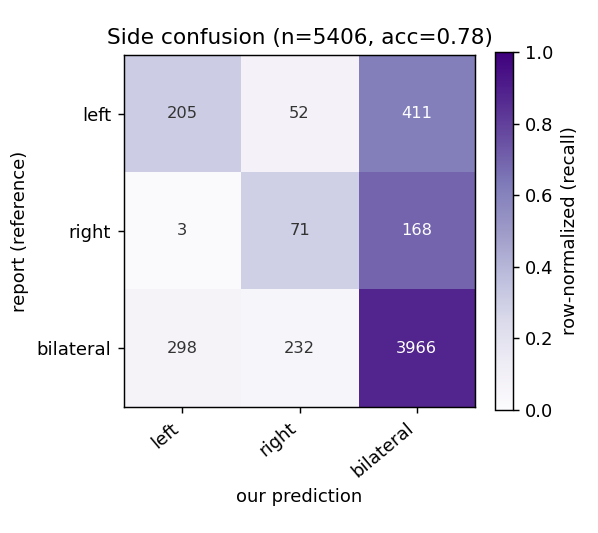
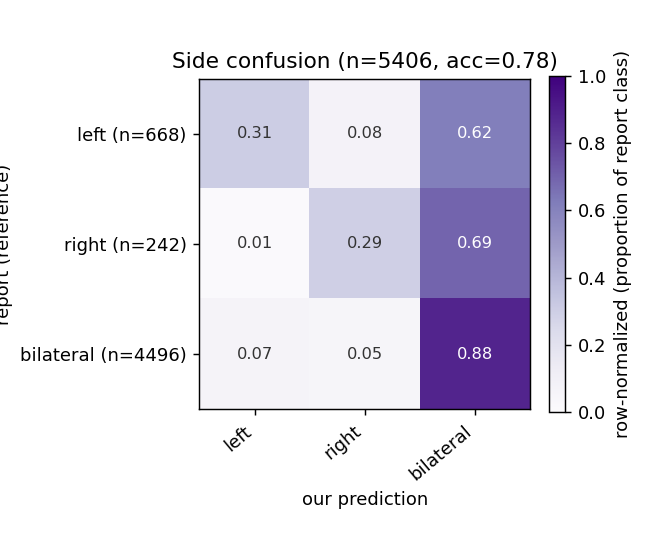
fix oversights: plan + scripts/36 (stage 7463 original abnormals from segments_raw) for stage breakout; row-normalized confusion matrices

diff --git a/scripts/36_stage_original_abnormals.py b/scripts/36_stage_original_abnormals.py
@@ -1,0 +1,78 @@
+"""Fix oversight #1: stage the ORIGINAL abnormal recordings (never staged — the original pipeline
+staged only normals). Their raw signal is on S3 as 10-min segments_raw .mat clips, already in the
+stager's format. Pull -> ss_hm_1 -> per-window stages -> data/derived/original_abnormal_stages/<rid>.csv.
+Resumable via .done markers. Run on the GPU box.
+
+Run: PYTHONPATH=src python scripts/36_stage_original_abnormals.py [N_per_label]   (default all)
+"""
+from __future__ import annotations
+import os, sys, json, time, subprocess, tempfile, shutil, importlib.util
+from pathlib import Path
+
+_spec = importlib.util.spec_from_file_location("p26", str(Path(__file__).with_name("26_slowing_ingest_pilot.py")))
+p26 = importlib.util.module_from_spec(_spec); _spec.loader.exec_module(p26)
+
+BASE = "bdsp-opendata-credentialed/morgoth1/data/internal_dataset"
+SRC = {"focal_slow": f"{BASE}/FOCALSLOWING/segments_raw",
+       "general_slow": f"{BASE}/GENSLOWING/segments_raw"}
+OUT = Path("data/derived/original_abnormal_stages"); DONE = OUT / "done"
+OUT.mkdir(parents=True, exist_ok=True); DONE.mkdir(exist_ok=True)
+PROG = p26.OUT / "stage_abnormals_progress.jsonl"
+
+
+def _prog(**k):
+    try:
+        with open(PROG, "a") as fh: fh.write(json.dumps({"t": time.time(), **k}) + "\n")
+    except Exception: pass
+
+
+def listing(prefix):
+    r = subprocess.run([p26.RC, "lsf", f"bdsp:{prefix}/"], capture_output=True, text=True)
+    return [l for l in r.stdout.splitlines() if l.endswith(".mat")]
+
+
+def main(n_per=None):
+    files = {lab: listing(pfx) for lab, pfx in SRC.items()}
+    # interleave labels
+    order, i = [], 0
+    labs = list(files)
+    while any(i < len(files[l]) for l in labs):
+        for l in labs:
+            if i < len(files[l]) and (n_per is None or i < n_per):
+                order.append((l, files[l][i]))
+        i += 1
+    total = len(order)
+    done0 = len(list(DONE.glob("*.done")))
+    _prog(event="start", total=total + done0, done=done0)
+    print(f"{total} abnormal clips to stage ({done0} already done)")
+    work = Path(tempfile.mkdtemp()); n_ok = done0
+    try:
+        for lab, fn in order:
+            rid = fn[:-4].replace("sub-", "")
+            if (DONE / f"{rid}.done").exists():
+                continue
+            sin, sout = work / "in", work / "out"
+            for d in (sin, sout): shutil.rmtree(d, ignore_errors=True); d.mkdir(parents=True)
+            try:
+                p26.rclone(["copy", f"bdsp:{SRC[lab]}/{fn}", str(sin)])
+                p26.stage_dir(str(sin), str(sout))
+                csv = next(sout.glob("*.csv"), None)
+                if csv:
+                    shutil.copy(csv, OUT / f"{rid}.csv")
+                    (DONE / f"{rid}.done").touch(); n_ok += 1
+                    if n_ok % 25 == 0:
+                        print(f"  staged {n_ok}/{total + done0}");
+                    _prog(event="done", rid=rid, done=n_ok, label=lab)
+            except Exception as e:
+                print(f"  FAIL {rid}: {type(e).__name__}: {e}")
+                _prog(event="fail", rid=rid, err=type(e).__name__)
+            finally:
+                for d in ("in", "out"): shutil.rmtree(work / d, ignore_errors=True)
+    finally:
+        shutil.rmtree(work, ignore_errors=True)
+    _prog(event="finish", done=n_ok)
+    print(f"done: {n_ok} abnormal recordings staged -> {OUT}")
+
+
+if __name__ == "__main__":
+    main(int(sys.argv[1]) if len(sys.argv) > 1 else None)

diff --git a/scripts/35_region_eval.py b/scripts/35_region_eval.py
@@ -22,17 +22,19 @@ SIDES = ["left", "right", "bilateral"]
 
 
 def heatmap(cm, labels, title, path, cmap="Blues"):
-    cmn = cm / cm.sum(axis=1, keepdims=True).clip(min=1)      # row-normalized (recall)
-    fig, ax = plt.subplots(figsize=(1.3 + 1.1 * len(labels), 1.1 + 1.0 * len(labels)))
+    n_row = cm.sum(axis=1, keepdims=True)
+    cmn = cm / n_row.clip(min=1)                              # row-normalized (recall)
+    ylab = [f"{l} (n={int(n)})" for l, n in zip(labels, n_row.ravel())]
+    fig, ax = plt.subplots(figsize=(1.7 + 1.1 * len(labels), 1.3 + 1.0 * len(labels)))
     im = ax.imshow(cmn, cmap=cmap, vmin=0, vmax=1)
     ax.set_xticks(range(len(labels))); ax.set_xticklabels(labels, rotation=40, ha="right")
-    ax.set_yticks(range(len(labels))); ax.set_yticklabels(labels)
+    ax.set_yticks(range(len(labels))); ax.set_yticklabels(ylab)
     ax.set_xlabel("our prediction"); ax.set_ylabel("report (reference)"); ax.set_title(title)
     for i in range(len(labels)):
         for j in range(len(labels)):
-            ax.text(j, i, f"{cm[i, j]}", ha="center", va="center",
+            ax.text(j, i, f"{cmn[i, j]:.2f}", ha="center", va="center",
                     color="white" if cmn[i, j] > 0.5 else "#333", fontsize=9)
-    fig.colorbar(im, ax=ax, fraction=0.046, label="row-normalized (recall)")
+    fig.colorbar(im, ax=ax, fraction=0.046, label="row-normalized (proportion of report class)")
     fig.tight_layout(); fig.savefig(path, dpi=130); plt.close(fig)
 
 

diff --git a/docs/staging_and_localization_plan.md b/docs/staging_and_localization_plan.md
@@ -1,0 +1,42 @@
+# Plan: fix the two oversights (stage coverage + region localization)
+
+Both are **our own data-collection gaps**, not external limits — we control the ingestion, so we fix
+them by collecting the right data.
+
+## Oversight #1 — sleep staging was only run on the normative controls
+**Symptom:** the original cohort's staged subset is 98.5% normal (74 focal, 0 generalized), so a
+stage-stratified abnormal-vs-normal AUROC can't be computed on it.
+**Root cause:** the original pipeline staged only the normal recordings used to build the norms; the
+abnormal recordings (from FOCALSLOWING/GENSLOWING) were never staged.
+**Fix — stage the abnormals we already have.** Their raw signal is on S3:
+`morgoth1/.../FOCALSLOWING/segments_raw/` (2,067) + `GENSLOWING/segments_raw/` (5,396) — 10-min,
+200 Hz, 20-ch `.mat` clips, already in the stager's input format. Steps:
+1. `scripts/36_stage_original_abnormals.py`: pull each `segments_raw/*.mat`, run `ss_hm_1`, save
+   per-window stages → `data/derived/original_abnormal_stages/<rid>.csv` (resumable via markers).
+   ~7.5k clips × ~2–4 s each ≈ a few GPU-hours on the pilot box.
+3. Map stages → the existing per-segment features (`segment_features.parquet`) for those recordings →
+   now the full cohort has staged focal + gen.
+4. Re-run `scripts/34` → the stage-stratified AUROC (Wake/N1/N2/N3/REM) becomes real, thousands per
+   label. Fleet later stages every new recording too.
+**Target:** ≥ several hundred staged focal AND gen across age bands → powered stage curves.
+
+## Oversight #2 — region localization only evaluable/decent for temporal
+**Symptom:** region "accuracy" 0.92 is a majority-class artifact (temporal ~92%); our system predicts
+temporal/bilateral by default; frontal/parietal/occipital F1 ≈ 0; left/right F1 0.35/0.24.
+**Two root causes, two fixes:**
+- **(a) Evaluation set too thin off-temporal.** Deliberately assemble a **region-stratified eval set**:
+  from `report_extracted_labels.csv` we have abnormals per region (frontal 698, central 266, occipital
+  68, parietal 66). Ingest/stage a balanced sample across regions (target ~60–100 each of frontal,
+  central, parietal, occipital + temporal) so every region has enough n to score.
+- **(b) Our region predictor defaults to temporal.** Replace the text-default with a **data-driven
+  region call**: assign the predicted region = the region with the largest age/sex-adjusted slowing
+  deviation (we already compute per-region deviations + homologous L/R asymmetry). Re-evaluate with the
+  per-region confusion matrix. This turns localization from "defaults to temporal" into an actual
+  topographic prediction we can score.
+**Target:** per-region recall/F1 reported on ≥ ~60 recordings per region; L/R from the asymmetry sign.
+
+## Sequencing
+1. (now) Launch `scripts/36` to stage the original abnormals (fixes #1 at scale).  ← highest value
+2. Improve the region predictor (max-deviation region) + region-stratified eval (fixes #2).
+3. Re-run stage-stratified AUROC + region confusion on the newly-staged/located data → dashboards.
+4. Fleet run generalizes both to the full wave.